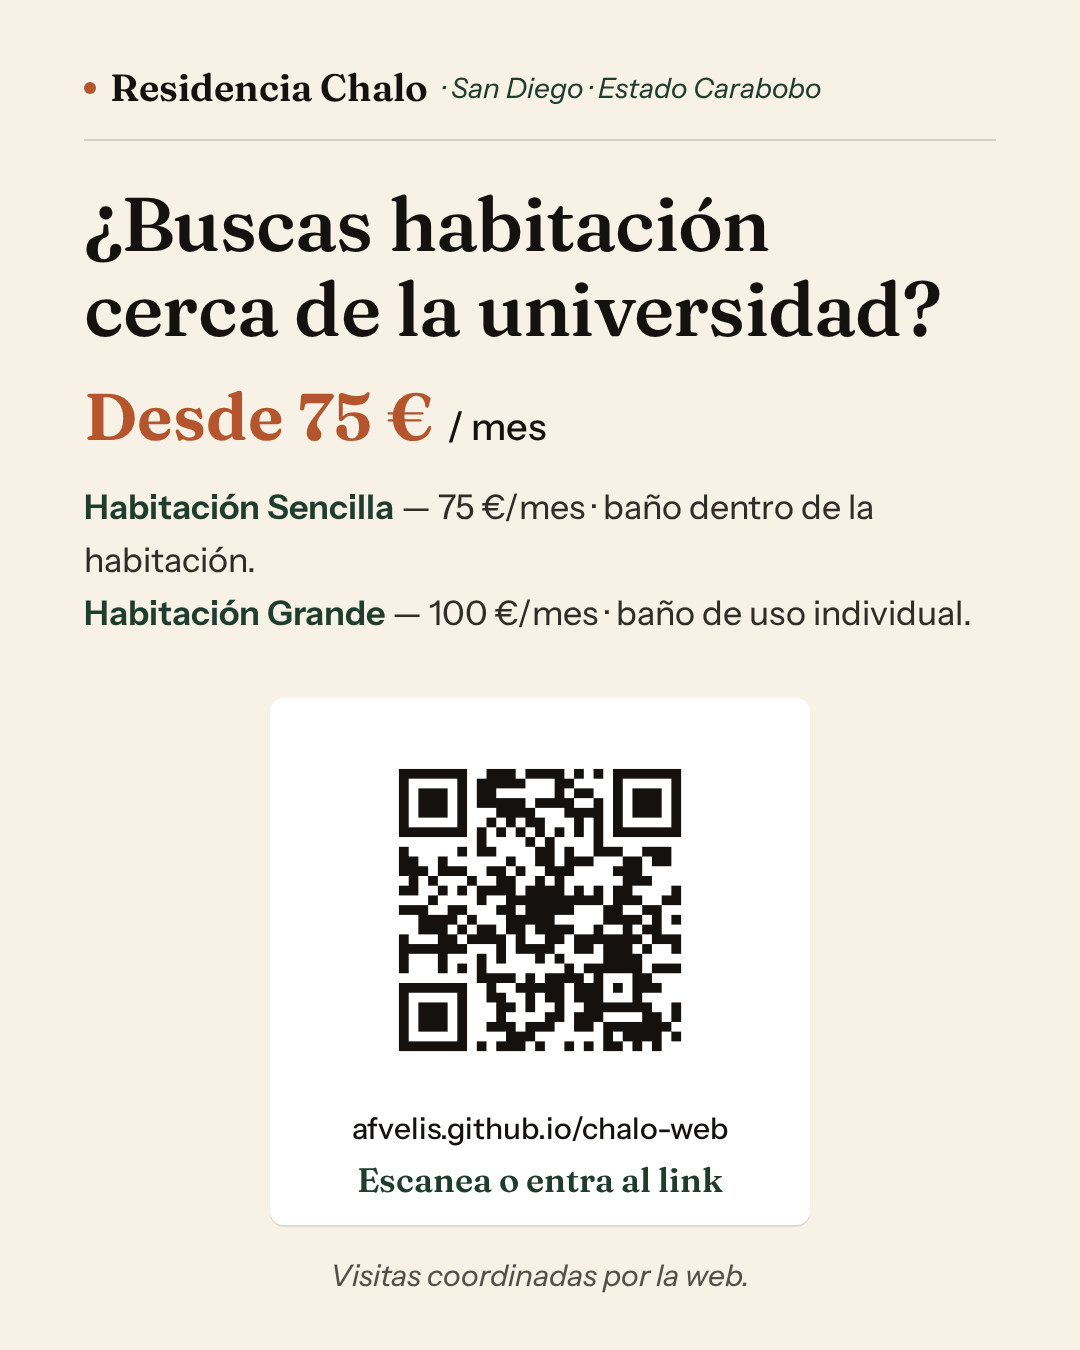
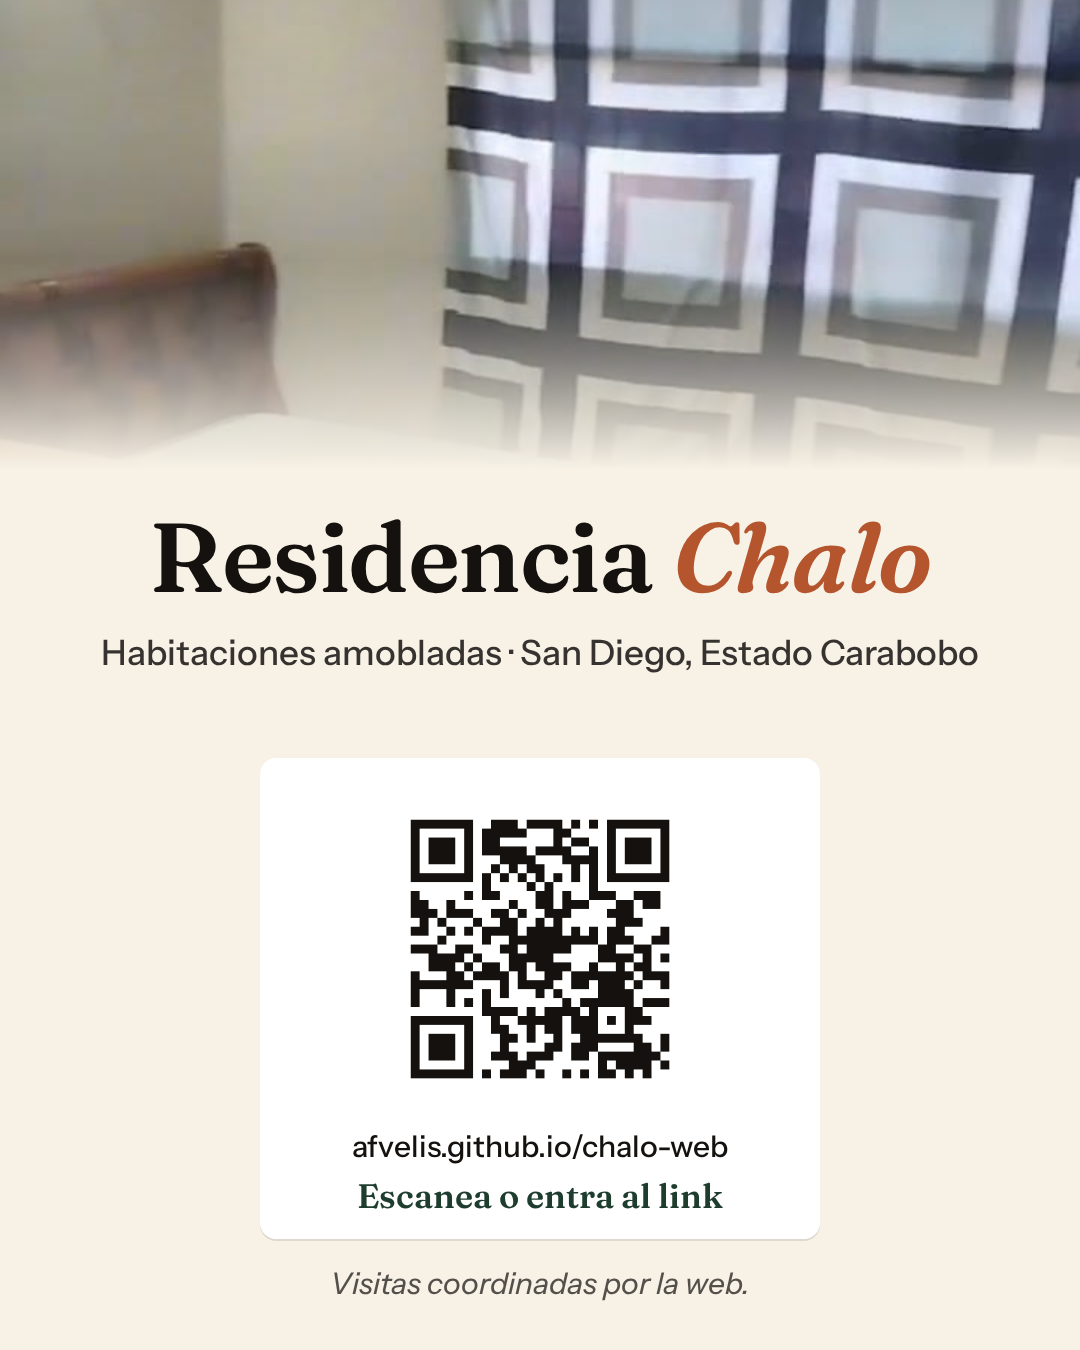
Tarjeta y miniatura de marca, sin precios

diff --git a/index.html b/index.html
@@ -11,14 +11,14 @@
   <meta property="og:title" content="Residencia Chalo — Habitaciones amobladas en San Diego, Carabobo">
   <meta property="og:description" content="Cuartos amoblados con servicios incluidos, desde 75 €/mes. Coordina tu visita por la web.">
   <meta property="og:url" content="https://afvelis.github.io/chalo-web/">
-  <meta property="og:image" content="https://afvelis.github.io/chalo-web/assets/img/og-chalo.jpg">
+  <meta property="og:image" content="https://afvelis.github.io/chalo-web/assets/img/og-chalo-2.jpg">
   <meta property="og:image:width" content="1200">
   <meta property="og:image:height" content="630">
   <meta property="og:image:alt" content="Habitación amoblada de Residencia Chalo en San Diego, Carabobo">
   <meta name="twitter:card" content="summary_large_image">
   <meta name="twitter:title" content="Residencia Chalo — Habitaciones en San Diego, Carabobo">
   <meta name="twitter:description" content="Desde 75 €/mes, servicios incluidos. Coordina tu visita por la web.">
-  <meta name="twitter:image" content="https://afvelis.github.io/chalo-web/assets/img/og-chalo.jpg">
+  <meta name="twitter:image" content="https://afvelis.github.io/chalo-web/assets/img/og-chalo-2.jpg">
   <link rel="stylesheet" href="assets/fonts/fonts.css?v=20261113p">
   <link rel="stylesheet" href="css/main.css?v=20261113p">
   <script src="data/site.js?v=20261113p" defer></script>

diff --git a/publicidad/index.html b/publicidad/index.html
@@ -38,7 +38,7 @@
   <div class="wrap">
     <div><span class="dot"></span><span class="brand">Residencia Chalo</span> <span class="brand-sub">·&nbsp;San Diego&nbsp;·&nbsp;Estado Carabobo</span></div>
     <h1>Pack publicitario</h1>
-    <p class="lede">Materiales listos para imprimir y compartir. Habitaciones desde 75&nbsp;€/mes.</p>
+    <p class="lede">Materiales listos para imprimir y compartir. La tarjeta y la miniatura de la web son de marca (sin precios); el cartel sí lleva los precios.</p>
     <hr>
 
     <div class="grid">
@@ -62,7 +62,7 @@
         <div class="thumb"><img src="./tarjeta-whatsapp.png" alt="Miniatura de la tarjeta"></div>
         <div class="pad">
           <h2>Tarjeta WhatsApp (PNG)</h2>
-          <p>1080×1350&nbsp;px, lista para enviar por WhatsApp o Instagram.</p>
+          <p>1080×1350&nbsp;px, de marca y sin precios, lista para enviar por WhatsApp o Instagram.</p>
           <span class="uso">Enviar por WhatsApp</span>
         </div>
       </a>

diff --git a/publicidad/PROMPT-nano-banana.md b/publicidad/PROMPT-nano-banana.md
@@ -31,28 +31,25 @@ No phone numbers, no email, no address, no logos, no watermarks, no extra text.
 
 ---
 
-## Prompt 2 — Tarjeta para WhatsApp / Instagram (1080×1350 px)
+## Prompt 2 — Tarjeta de marca para WhatsApp / Instagram (1080×1350 px)
 
 ```text
 Create a social media card, portrait, exactly 1080x1350 pixels (4:5 ratio), flat editorial layout.
 
-STYLE: Warm Caribbean editorial design. Cream background (#F7F1E6), ink-black text (#14110E), one terracotta accent (#B4552D), deep green details (#1F3D2F). Serif display type (Fraunces-like) for headline and price, clean sans-serif (Instrument Sans-like) for supporting lines. LARGE, highly legible type — this card must stay readable as a small chat thumbnail. Generous white space, no gradients, no clipart, no emojis.
+STYLE: Warm Caribbean editorial design. Cream background (#F7F1E6), ink-black text (#14110E), one terracotta accent (#B4552D), deep green details (#1F3D2F). Serif display type (Fraunces-like) for the brand name, clean sans-serif (Instrument Sans-like) for supporting lines. LARGE, highly legible type — this card must stay readable as a small chat thumbnail. Generous white space, no gradients, no clipart, no emojis.
 
-PHOTO: optional, very small soft warm photo of a simple furnished bedroom; if it competes with legibility, omit it.
+PHOTO: a warm, natural photo of a simple furnished bedroom (bed with clean white linens, soft daylight), full-bleed across the TOP of the card, fading smoothly into the cream background. It must blend with the palette; no odd crops.
 
 MANDATORY QR RESERVATION: In the LOWER CENTER, leave a completely BLANK, CLEAN WHITE ROUNDED SQUARE CARD with generous white padding (quiet zone), about 50% of the card width. DO NOT draw any QR code or pattern inside it. Below the square, small text "afvelis.github.io/chalo-web" and, in deep green serif, "Escanea o entra al link".
 
 EXACT TEXT ON THE CARD (Spanish, reproduce exactly):
-- Brand line: "Residencia Chalo · San Diego · Estado Carabobo"
-- Headline, large serif: "¿Buscas habitación cerca de la universidad?"
-- Price, terracotta, very large: "Desde 75 € / mes"
-- Option line 1: "Habitación Sencilla — 75 €/mes · baño dentro de la habitación."
-- Option line 2: "Habitación Grande — 100 €/mes · baño de uso individual."
+- Brand, very large serif: "Residencia Chalo" (with "Chalo" in the terracotta accent color)
+- Fixed line, medium: "Habitaciones amobladas · San Diego, Estado Carabobo"
 - Footer, italic, small: "Visitas coordinadas por la web."
 
-Do not add any other text. All copy in Spanish exactly as written above.
+STRICTLY FORBIDDEN: no prices, no rates, no currency symbols, no amounts, no "Desde", no room names or room types, no bathroom details, no phone numbers, no email, no address, no logos, no watermarks, no extra text. This is a brand-only card.
 
-No phone numbers, no email, no address, no logos, no watermarks, no extra text.
+Do not add any other text. All copy in Spanish exactly as written above.
 ```
 
 ---

diff --git a/publicidad/LEEME.md b/publicidad/LEEME.md
@@ -8,7 +8,7 @@ Material gráfico listo para imprimir y compartir. Todo lo que hay aquí está *
 |---|---|---|
 | `cartel-carta.pdf` | Cartel en PDF, página carta (8.5×11 in), a sangrado completo (sin márgenes) | Imprimir en papel carta |
 | `cartel-carta.png` | El mismo cartel en imagen, 2550×3300 px (300 DPI) | Para subir, previsualizar o imprimir desde apps que no aceptan PDF |
-| `tarjeta-whatsapp.png` | Tarjeta vertical 1080×1350 px (4:5) | Enviar por WhatsApp o publicar en Instagram/estado |
+| `tarjeta-whatsapp.png` | Tarjeta vertical 1080×1350 px (4:5), de marca y sin precios | Enviar por WhatsApp o publicar en Instagram/estado |
 | `qr-residencia-chalo.png` | QR real y verificado, 1480×1480 px | Pegarlo en otros diseños; ya está incrustado en el cartel y la tarjeta |
 | `cartel-carta.html` / `tarjeta-whatsapp.html` | Fuentes editables del diseño | Para cambiar textos y volver a renderizar (ver abajo) |
 | `index.html` | Página de descargas del pack | Abrir en el navegador para ver miniaturas y descargar |
